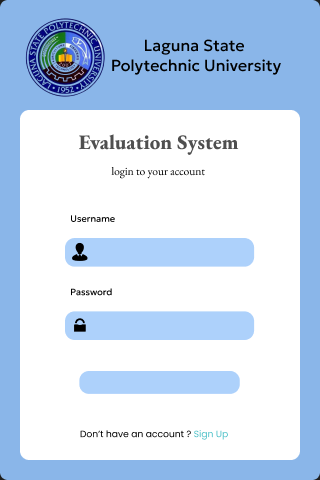
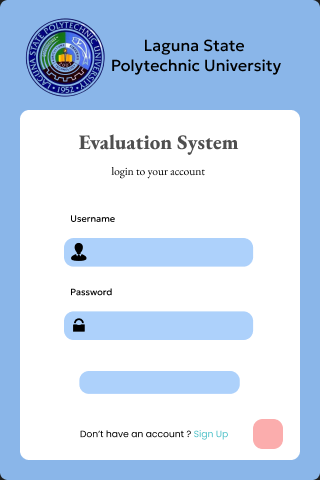
Merge remote-tracking branch 'origin/main'

diff --git a/System/adminloginform.py b/System/adminloginform.py
@@ -1,0 +1,95 @@
+from tkinter import *
+from tkinter import messagebox
+from PIL import ImageTk
+from loginform import open_loginform
+import db_connection
+
+
+# Create the admin window
+def open_adminform():
+    admin = Tk()
+    admin.geometry('320x480')
+    admin.resizable(0, 0)
+    admin.title('admin Page')
+
+    # Add background image
+    backgroundImage = PhotoImage(file='Image/AdminLoginPage.png')
+    bg_label = Label(admin, image=backgroundImage)
+    bg_label.place(x=0, y=0)
+
+    def view_pass():
+        hidePass.config(file='Image/view16x16.png')
+        passEntry.config(show='')
+        eye_button.config(command=hide_pass)
+
+    def hide_pass():
+        hidePass.config(file='Image/hide16x16.png')
+        passEntry.config(show='*')
+        eye_button.config(command=view_pass)
+
+    def create_placeholder_entry(entry, placeholder_text, is_password=False):
+        def focus_in(event):
+            if entry.get() == placeholder_text:
+                entry.delete(0, END)
+                entry.config(fg='#000000')
+            if is_password:
+                entry.config(show='*')
+
+        def focus_out(event):
+            if entry.get() == '':
+                if is_password:
+                    entry.config(show='*')
+                    entry.insert(0, placeholder_text)
+                    entry.config(fg='#747474')
+                else:
+                    entry.insert(0, placeholder_text)
+                    entry.config(fg='#747474')
+
+        if is_password:
+            entry.insert(0, placeholder_text)
+            entry.config(fg='#747474')
+        else:
+            entry.insert(0, placeholder_text)
+            entry.config(fg='#747474')
+
+        entry.bind('<FocusIn>', focus_in)
+        entry.bind('<FocusOut>', focus_out)
+
+    def openlogin():
+        admin.destroy()  # Close the current admin form
+        open_loginform() # Open the login form
+
+    def admin_user():
+        """Fetch the form data and verify admin credentials."""
+        username = userEntry.get().lower()
+        password = passEntry.get().lower()
+
+        if username == 'username' or password == 'password':
+            messagebox.showerror("Error", "Please enter your username and password!")
+            return
+
+        # Call the function to verify admin credentials
+        if db_connection.verify_admin(username, password):
+            messagebox.showinfo("Admin", "Admin login successful!")
+            # Proceed to the next part of your admin application
+        else:
+            messagebox.showerror("Error", "Invalid admin username or password!")
+
+    userEntry = Entry(admin, width=13, font=('Arial Rounded MT Bold', 12), bd=0, bg='#ADD1FB', fg='#000000')
+    userEntry.place(x=97, y=243.5)
+    create_placeholder_entry(userEntry, 'Username')
+    passEntry = Entry(admin, width=13, font=('Arial Rounded MT Bold', 12), bd=0, bg='#ADD1FB', fg='#000000')
+    passEntry.place(x=97, y=316.5)
+    create_placeholder_entry(passEntry, 'Password', is_password=True)
+
+    adminButton = Button(admin, width=18, text='Submit', font=('Arial Rounded MT Bold', 8), bd=0, bg='#ADD1FB', activebackground='#ADD1FB', cursor='hand2', command=admin_user)
+    adminButton.place(x=95, y=376)
+
+    signupButton = Button(admin, width=8, text='Login Here', font=('Arial Rounded MT Bold', 7), bd=0, bg='#ffffff', activebackground='#ffffff', fg='#50C2C9', activeforeground='#50C2C9', cursor='hand2', command=openlogin)
+    signupButton.place(x=193, y=428)
+
+    hidePass = PhotoImage(file='Image/hide16x16.png')
+    eye_button = Button(admin, image=hidePass, bd=0, bg='#ADD1FB', activebackground='#ADD1FB', cursor='hand2', command=view_pass)
+    eye_button.place(x=230, y=318)
+
+    admin.mainloop()

diff --git a/System/loginform.py b/System/loginform.py
@@ -2,6 +2,7 @@ from tkinter import *
 from tkinter import messagebox
 from PIL import ImageTk
 import registerform
+import adminloginform
 import db_connection
 
 # Create the login window
@@ -40,7 +41,6 @@ def open_loginform():
                     entry.config(show='*')
                     entry.insert(0, placeholder_text)
                     entry.config(fg='#747474')
-                    entry.config(show='')  # Show * for placeholder
                 else:
                     entry.insert(0, placeholder_text)
                     entry.config(fg='#747474')
@@ -57,7 +57,11 @@ def open_loginform():
 
     def openregister():
         login.destroy()  # Close the current login form
-        registerform.open_registerform()  # Open the register form
+        registerform.open_registerform() # Open the register form
+    def openadmin():
+        login.destroy()
+        adminloginform.open_adminform()
+
 
     def login_user():
         """Fetch the form data and verify user credentials."""
@@ -86,6 +90,10 @@ def open_loginform():
     loginButton.place(x=95, y=376)
     signupButton = Button(login, width=5, text='Sign up', font=('Arial Rounded MT Bold', 7), bd=0, bg='#ffffff', activebackground='#ffffff', fg='#50C2C9', activeforeground='#50C2C9', cursor='hand2', command=openregister)
     signupButton.place(x=195, y=428)
+
+    adminImage =PhotoImage(file='Image/AdminButton.png')
+    adminButton = Button(login, image=adminImage, bd=0, bg='#FBADAD', activebackground='#FBADAD', cursor='hand2',command=openadmin)
+    adminButton.place(x=258, y=424)
 
     hidePass = PhotoImage(file='Image/hide16x16.png')
     eye_button = Button(login, image=hidePass, bd=0, bg='#ADD1FB', activebackground='#ADD1FB', cursor='hand2', command=view_pass)

diff --git a/System/db_connection.py b/System/db_connection.py
@@ -49,3 +49,17 @@ def verify_user(username, password):
     conn.close()
     return result is not None
 
+
+def verify_admin(username, password):
+    """Verify the admin's credentials against the database."""
+    conn = get_connection()
+    cursor = conn.cursor()
+    query = "SELECT * FROM admins WHERE username = %s AND password = %s"
+    cursor.execute(query, (username, password))
+    result = cursor.fetchone()
+    cursor.close()
+    conn.close()
+    return result is not None
+
+
+

diff --git a/System/registerform.py b/System/registerform.py
@@ -47,6 +47,8 @@ def open_registerform():
                 entry.config(fg='#000000')
             if is_password:
                 entry.config(show='*')
+                entry.delete(0, END)
+                entry.config(fg='#000000')
 
         def focus_out(event):
             if entry.get() == '':
